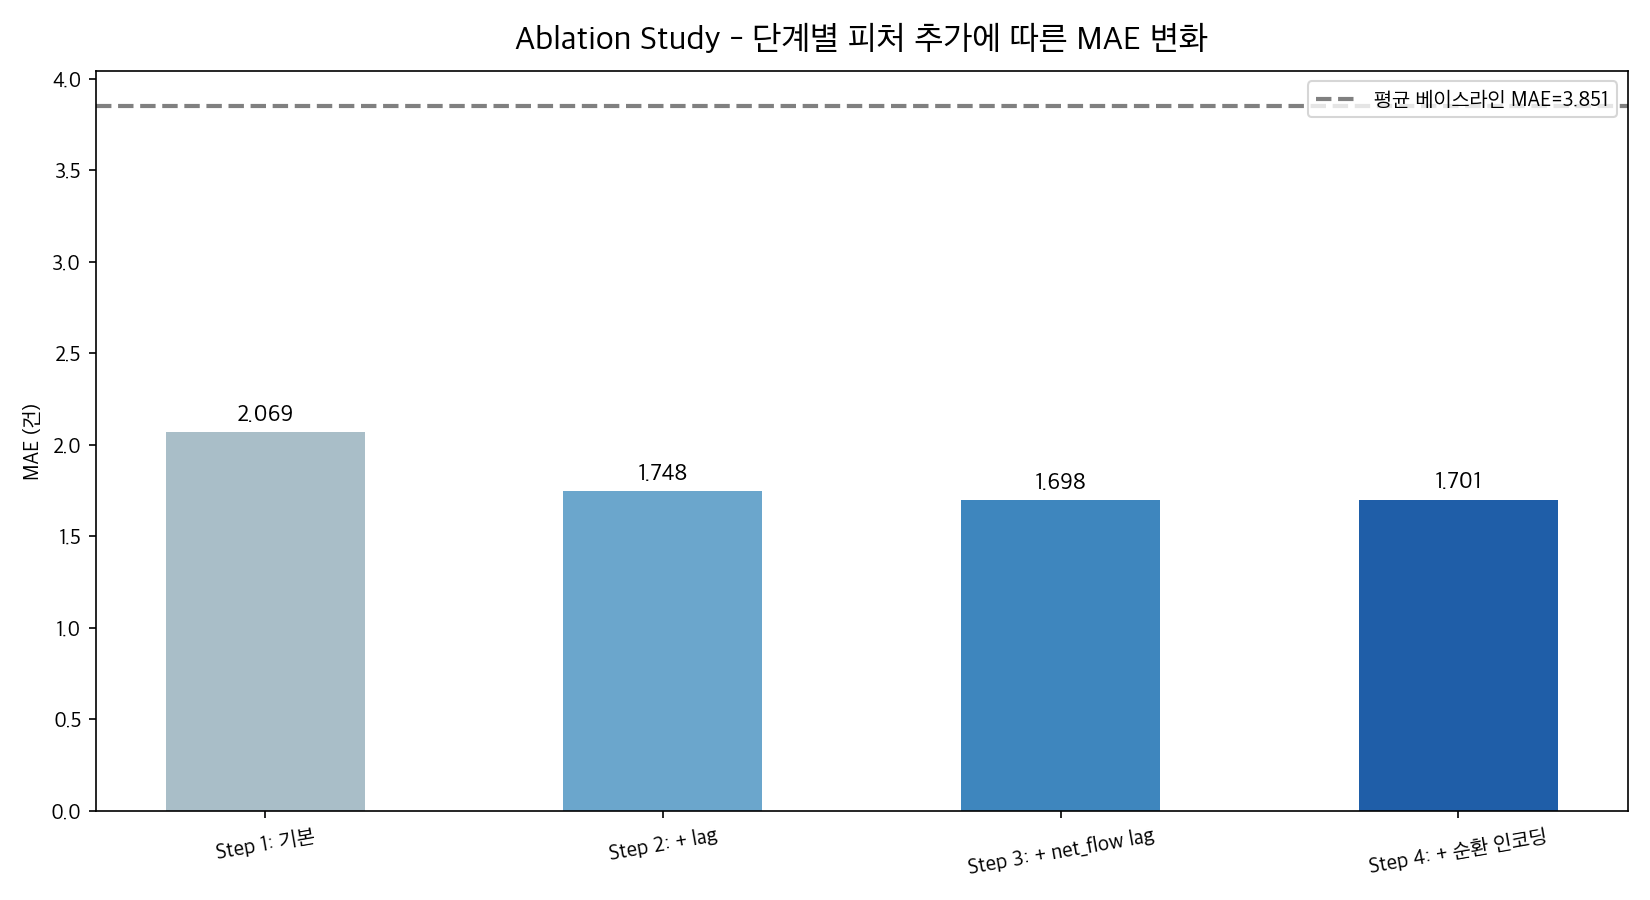
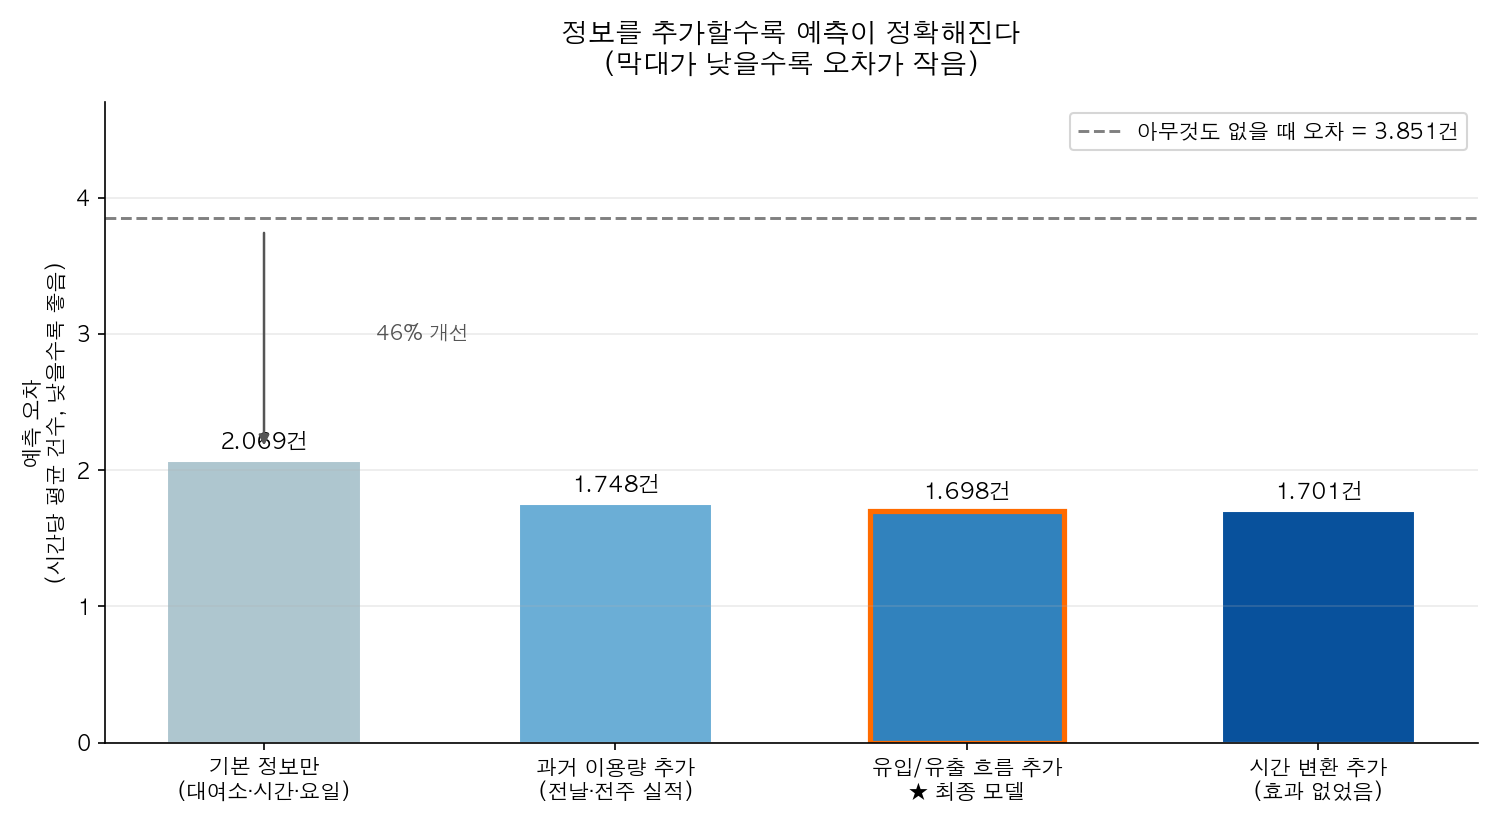
ReadMe: compact business version

diff --git a/README.md b/README.md
@@ -1,36 +1,18 @@
 # 따릉이 수요 분석: 재배치를 데이터로 결정하다
 
-서울시 따릉이 2025년 4분기 대여 기록 **855만 건**을 분석해, 자전거 재배치 의사결정을 자동화하기 위한 프로젝트입니다.
+서울시 따릉이 2025년 4분기 대여 기록 **855만 건**을 분석해 자전거 재배치 의사결정을 자동화하기 위한 프로젝트. 이용자 유형 파악 → 수요 급증 감지 → 시간별 수요 예측 순서로 진행했다.
 
-| 항목 | 내용 |
-|---|---|
-| 데이터 | 2025년 10~12월 대여 기록 |
-| 규모 | 8,559,939건 |
-| 분석 흐름 | 이용자 유형 파악 → 수요 급증 감지 → 시간별 수요 예측 |
+**왜 만들었나** — 어떤 대여소는 자전거가 없고 어떤 대여소는 넘친다. 재배치 트럭이 매일 돌지만 어디로 먼저 가야 할지는 현장 감각에 의존하는 경우가 많다. 이걸 데이터로 바꾸고 싶었다.
 
----
+**핵심 결과** — 이용자는 3가지 유형으로 나뉜다 / 평일 17~19시 급증은 매주 반복되는 구조적 패턴이다 / 수요를 시간당 약 1.7건 오차로 예측할 수 있다.
 
-## 왜 이 프로젝트를 했나
-
-따릉이 운영에서 반복되는 문제는 단순하다. **어떤 대여소는 자전거가 없고, 어떤 대여소는 넘친다.** 재배치 트럭이 매일 돌지만, 어디로 먼저 가야 할지는 현장 감각에 의존하는 경우가 많다.
-
-이 프로젝트의 목표는 세 가지 질문에 데이터로 답하는 것이다.
-
-1. 이용자는 어떤 패턴으로 따릉이를 쓰는가?
-2. 언제, 어느 대여소에서 수요가 갑자기 튀는가?
-3. 내일 수요를 미리 얼마나 정확하게 알 수 있는가?
+| 분석 | 방법 | 한 마디로 |
+|---|---|---|
+| 이용자 유형 분류 | K-Means | 비슷한 패턴의 사람들을 자동으로 묶는 알고리즘 |
+| 수요 급증 감지 | STL 분해 | 반복 패턴을 걷어내고 진짜 이상한 시점만 골라내는 통계 기법 |
+| 시간별 수요 예측 | LightGBM | 수백만 건의 과거 데이터를 학습해 미래 수요를 예측하는 모델 |
 
 ---
-
-## 핵심 결과 요약
-
-- **이용자는 세 가지 유형**으로 나뉜다. 퇴근 단거리, 출근 단거리, 오후 장거리.
-- **반복되는 급증 패턴**이 존재한다. 특히 평일 17~19시는 특정 대여소에서 매주 같은 패턴이 나타난다.
-- **수요 예측 정확도는 시간당 약 1.7건 오차** 수준이다. 하루 전날 저녁에 고갈 예상 대여소 목록을 자동 생성할 수 있다.
-
----
-
-**목차**
 
 - [01. 이용자는 어떤 사람들인가?](#01-이용자는-어떤-사람들인가)
 - [02. 언제, 어디서 수요가 튀는가?](#02-언제-어디서-수요가-튀는가)
@@ -40,83 +22,63 @@
 
 ## 01. 이용자는 어떤 사람들인가?
 
-이용 시간과 거리가 비슷한 사람들을 자동으로 묶어봤다. 따릉이 이용자는 크게 세 그룹으로 나뉜다.
-
 | 유형 | 비율 | 평균 이용시간 | 평균 거리 | 주로 언제 |
 |---|---|---|---|---|
 | 퇴근 단거리형 | 37.4% | 9.2분 | 1.18km | 17~18시 |
 | 출근 단거리형 | 32.9% | 8.3분 | 1.13km | 08~10시 |
 | 오후 장거리형 | 29.8% | 46.1분 | 4.44km | 14~18시 |
 
-전체 이용자의 70%는 10분 이내, 1.2km 이하의 단거리 통근 목적이다. 나머지 30%는 주말 오후에 평균 4km 이상을 달리는 여가 이용자다.
+70%는 10분 이내 단거리 통근, 30%는 주말 오후 여가 이용자다. 단거리 두 유형은 평일 위주, 장거리형은 주말 비중이 높다.
 
 ![이용시간-이동거리 산포도](reports/figures_readme/cluster_scatter_2d.png)
 
 ![유형별 24시간 이용 분포](reports/figures_readme/cluster_hour_dist.png)
 
-> 단거리 두 유형은 평일 위주, 장거리형은 주말 비중이 높다.
-
-### 이걸로 뭘 할 수 있나
-
-> **퇴근 단거리형 (37.4%):** 환승역·업무지구 인근 대여소에 17시 이전에 자전거를 채워둬야 한다.
->
-> **출근 단거리형 (32.9%):** 주거지·학교 근처 대여소는 08~10시 공급이 끊기지 않도록 관리해야 한다.
->
-> **오후 장거리형 (29.8%):** 공원·한강변 대여소는 오후 공급을 유지하고, 주말 여가 프로모션 타겟으로 활용할 수 있다.
+> **퇴근 단거리형:** 환승역·업무지구 대여소에 17시 이전 재고 확보
+> **출근 단거리형:** 주거지·학교 근처 대여소 08~10시 공급 안정화
+> **오후 장거리형:** 공원·한강변 오후 공급 유지, 주말 여가 프로모션 타겟
 
 ---
 
 ## 02. 언제, 어디서 수요가 튀는가?
 
-이용량 데이터에서 "평소 패턴을 벗어난 시점"을 자동으로 찾았다. 상위 50개 대여소를 대상으로 하루 주기 계절성을 제거한 뒤, 통계적으로 평소 범위를 벗어난 시점을 이상으로 정의했다.
-
-**탐지 결과: 2,776건 / 50개 대여소**
+상위 50개 대여소에서 탐지된 이상 패턴 **2,776건**.
 
 | 패턴 | 건수 | 비율 | 해석 |
 |---|---|---|---|
-| 주말 | 1,275건 | 45.9% | 이상이 아닌 구조적 수요 차이 — 별도 규칙으로 관리해야 함 |
+| 주말 | 1,275건 | 45.9% | 이상이 아닌 구조적 수요 차이 — 별도 규칙으로 관리 |
 | 기타 급증 | 522건 | 18.8% | 이벤트·날씨 영향 가능성 |
-| **평일 저녁 급증 (17~19시)** | **499건** | **18.0%** | 매주 반복되는 패턴 — 운영 규칙으로 전환하기 좋음 |
+| **평일 저녁 급증 (17~19시)** | **499건** | **18.0%** | 매주 반복 — 사전 재배치 규칙으로 자동화 가능 |
 | 기타 급감 | 344건 | 12.4% | 일시적 수요 위축 |
 | 공휴일 | 116건 | 4.2% | 공휴일 특수 수요 |
-| 평일 출근 급감 (08시) | 20건 | 0.7% | 빈도가 낮아 개별 규칙화는 어려움 |
-
-가장 주목할 패턴은 **평일 17~19시 급증**이다. 특정 대여소에서 매주 거의 같은 시간에 반복된다. 이 패턴은 예외 상황이 아니라 구조적인 수요이므로, 사전 재배치 규칙으로 자동화할 수 있다.
-
-주말(45.9%)은 이상이 아니다. 평일과 이용 패턴이 다를 뿐이므로, 이상 알림 대신 별도 운영 기준을 적용해야 한다.
+| 평일 출근 급감 (08시) | 20건 | 0.7% | 빈도 낮아 규칙화 어려움 |
 
 ![STL 이상 패턴 분류 및 시간대별 급증·급감 분포](reports/figures_readme/stl_pattern_calendar.png)
 
 ![평일 17~19시 급증 상위 대여소](reports/figures_readme/stl_evening_priority_stations.png)
 
-### 이걸로 뭘 할 수 있나
-
-> **17시 이전 사전 재배치:** 저녁 급증이 반복되는 대여소(ST-18, ST-1064, ST-3311 등)를 우선 순위로 삼아 재고를 확충한다.
->
-> **주말·공휴일 분리 대응:** 이상 알림 시스템에서 주말을 제외하고, 별도의 주말 운영 기준을 적용한다.
+> **17시 이전 사전 재배치:** 저녁 급증 반복 대여소(ST-18, ST-1064, ST-3311 등) 우선 재고 확충
+> **주말·공휴일 분리:** 이상 알림에서 제외하고 별도 운영 기준 적용
 
 ---
 
 ## 03. 내일 수요를 얼마나 정확히 예측할 수 있나?
 
-과거 데이터를 학습해 미래 시간대별 대여 건수를 예측하는 모델을 만들었다. 아무것도 모를 때의 기준(전체 평균값)과 비교해 얼마나 개선되는지를 단계별로 측정했다.
+"항상 전체 평균으로 찍으면" 시간당 3.85건 틀린다. 정보를 추가할수록 오차가 줄었다.
 
-| 단계 | 무엇을 추가했나 | 예측 오차 (시간당) | 개선율 |
-|---|---|---|---|
-| 기준 | 아무것도 없이 전체 평균만 사용 | 3.851건 | — |
-| 1단계 | 대여소, 시간, 요일, 월, 주말 여부 | 2.069건 | **46.3% 개선** |
-| 2단계 | + 1시간 전·전날·전주 이용량 | 1.748건 | 추가 15.5% 개선 |
-| **3단계** | + 대여소 유입/유출 흐름 | **1.698건** | **최종 55.9% 개선** |
-| 4단계 | + 삼각함수 시간 인코딩 | 1.701건 | 오히려 소폭 악화 |
+| 추가한 정보 | 예측 오차 | 개선 |
+|---|---|---|
+| 전체 평균만 (기준) | 3.851건 | — |
+| 대여소·시간·요일 | 2.069건 | **46% 감소** |
+| + 전날·전주 이용량 | 1.748건 | 추가 15% 감소 |
+| **+ 유입/유출 흐름** | **1.698건** | **★ 최종 모델** |
+| + 시간을 수학 변환 | 1.701건 | 오히려 나빠짐 |
 
-단 8개의 변수(대여소 ID, 시간, 요일 등)만으로도 오차가 절반 수준으로 줄었다. "과거 같은 시간에 얼마나 탔는가"를 추가하면 한 번 더 개선된다. 수학적으로 정교한 시간 인코딩은 오히려 역효과였다 — 모델이 정수 형태의 시간도 충분히 잘 처리하기 때문이다.
+가장 큰 개선은 첫 단계다. 대여소·시간·요일만 알아도 오차가 절반이 된다. 과거 이용량을 추가하면 한 번 더 줄어든다. 시간을 삼각함수로 변환하면 오히려 역효과 — 모델이 숫자 그대로도 충분히 잘 처리하기 때문이다.
 
-![피처 단계별 예측 오차 변화](reports/figures_readme/ablation_mae.png)
+![정보를 추가할수록 예측이 정확해진다](reports/figures_readme/ablation_mae.png)
 
 ![최종 모델: 예측값 vs 실제값 비교](reports/figures_readme/demand_forecast_sample.png)
 
-### 이걸로 뭘 할 수 있나
-
-> **출근 피크 대비 자동화:** 전날 밤 10시에 07~09시 피크 시간대 고갈 예상 대여소 목록을 자동 생성한다.
->
-> **재배치 동선 최적화:** 예측 수요와 주변 대여소 여유분을 함께 분석해 공급원을 자동 추천하고, 재배치 트럭 동선을 사전에 계획한다.
+> **출근 피크 자동화:** 전날 밤 10시에 07~09시 고갈 예상 대여소 목록 자동 생성
+> **재배치 동선 최적화:** 예측 수요 + 주변 여유분으로 공급원 자동 추천, 트럭 동선 사전 계획
